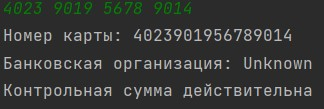
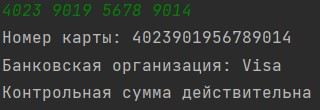
Изменил уcловие эмитента в файле

diff --git a/1st HW/README.md b/1st HW/README.md
@@ -19,7 +19,7 @@ $card_number = preg_replace('/\D/', '', $card_number);
 // Шаг 3: Сравнить номер карты с регулярными выражениями, чтобы определить выпустившую банковскую организацию
 if (preg_match('/^5[1-5]\d{14}$|^62\d{14}$|^67\d{14}$/', $card_number)) {
     $card_issuer = "Mastercard";
-} elseif (preg_match('/^4[1-9]\d{12,18}$|^14\d{12,18}$/', $card_number)) {
+} elseif (preg_match('/^4[0-9]\d{12,18}$|^14\d{12,18}$/', $card_number)) {
     $card_issuer = "Visa";
 } else {
     $card_issuer = "Unknown";
@@ -98,7 +98,7 @@ class CreditCardValidator
         if (in_array($prefix, range(51, 55)) || $prefix == 62 || $prefix == 67) {
             return 'MasterCard';
         }
-        if (in_array($prefix, range(41, 49)) || $prefix == 14) {
+        if (in_array($prefix, range(40, 49)) || $prefix == 14) {
             return 'VISA';
         }
 
